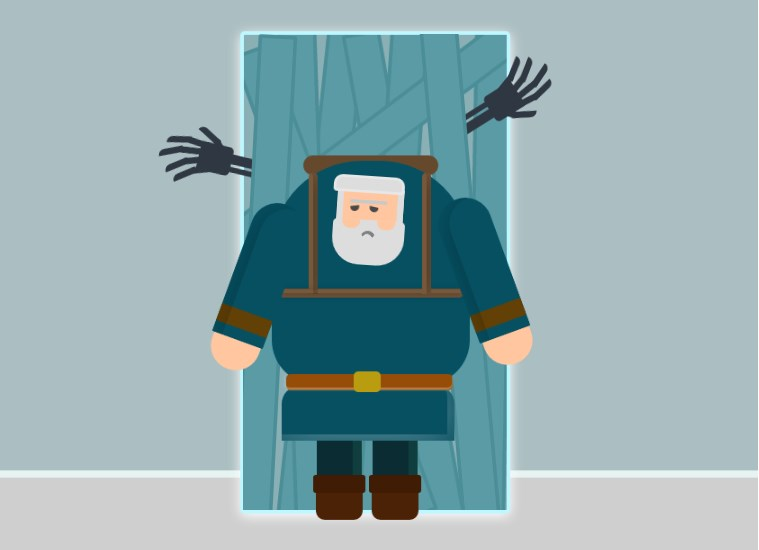
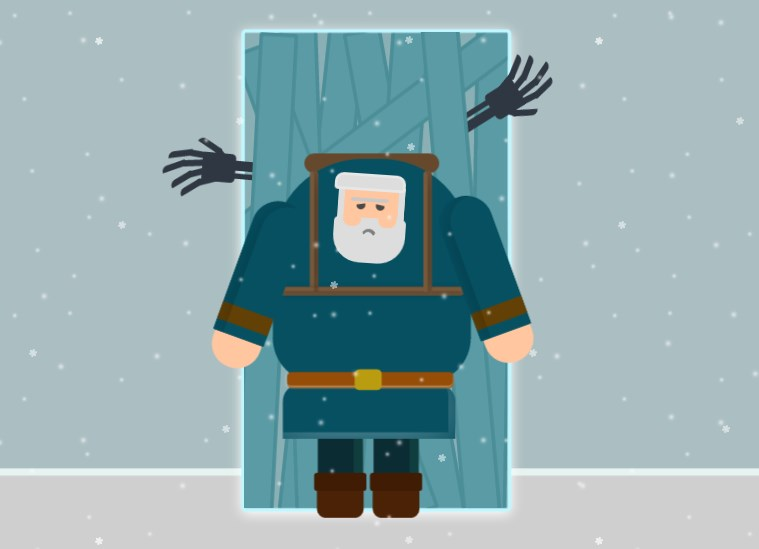
Se agrega nieve a hoddor

diff --git a/css/hodor.css b/css/hodor.css
@@ -748,3 +748,29 @@ left: 63px;
     border-radius: 50%;
     box-shadow: 0px 0px 4px rgba(256,256,256,0.9);
 }*/
+
+
[3 lines of base64/hex data omitted]
+
+@keyframes snow{
+    0%{background-position:0 0,0 0,0 0;}
+    50%{background-position:500px 500px,100px 200px,-100px 150px;}
+    100%{background-position:500px 1000px,200px 400px,-100px 300px;}
+}
+@-moz-keyframes snow {
+    0%{background-position:0 0,0 0,0 0;}
+    50%{background-position:500px 500px,100px 200px,-100px 150px;}
+    100%{background-position:400px 1000px,200px 400px,100px 300px;}
+}
+@-webkit-keyframes snow {
+      0%{background-position:0 0,0 0,0 0;}
+      50%{background-position:500px 500px,100px 200px,-100px 150px;}
+      100%{background-position:500px 1000px,200px 400px,-100px 300px;}
+}
+@-ms-keyframes snow {
+      0%{background-position:0 0,0 0,0 0;}
+      50%{background-position:500px 500px,100px 200px,-100px 150px;}
+      100%{background-position:500px 1000px,200px 400px,-100px 300px;}
+}   

diff --git a/pages/hodor.html b/pages/hodor.html
@@ -93,9 +93,11 @@
                 <div class="finger fe"></div>
             </div>
         </div>
-        <div class="round"></div>
         </div>
         
+        <div class="snow">
+            snow
+        </div>
     </div>
 </body>
 </html>
